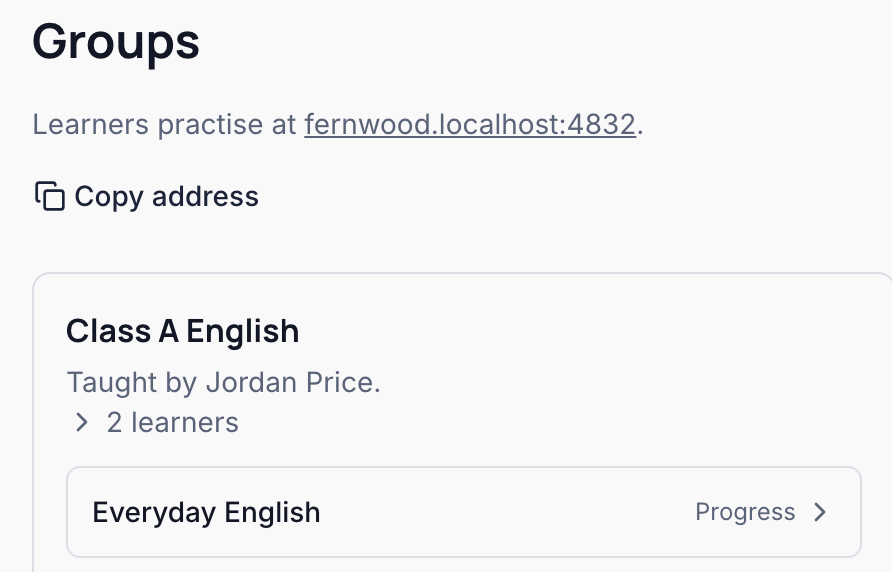
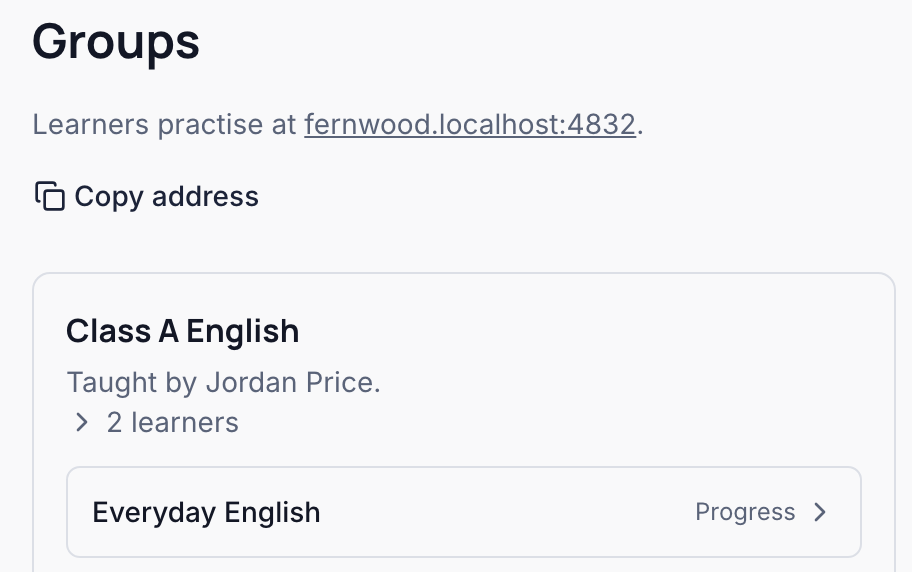
docs(screenshots): keep a card whole when a crop reaches its side
The question being reviewed showed its card cut at the right: the crop ended where the card did, and the card's edge, a ring drawn as a box shadow just outside it, fell outside the picture. A crop now takes in the whole width of any bordered or ringed box it reaches at a side, a ring's pixel of room included; it still cuts a long card or list top to bottom, where a step shows only part of one.

diff --git a/tooling/docs-screenshots/capture.ts b/tooling/docs-screenshots/capture.ts
@@ -145,8 +145,8 @@ async function sees(page: Page, ...labels: string[]) {
 
 /**
  * Run in the page: `clip` grown to cover every line of text, control, and
- * image it cuts through, with a little room; one wholly inside or outside
- * stays as it is. A string, as this package's types know no DOM.
+ * image it cuts through, and every bordered box it cuts at a side, with a
+ * little room; one wholly inside or outside stays as it is. A string, as this package's types know no DOM.
  */
 const STRADDLING = `(clip) => {
   const cuts = (r) =>
@@ -165,6 +165,23 @@ const STRADDLING = `(clip) => {
     rects.push(element.getBoundingClientRect());
   }
   const grown = { ...clip };
+  // A bordered box, such as a card, its edge a border or a ring (a box
+  // shadow, as shadcn's cards), whole from side to side; not top to
+  // bottom, where a step's part of a long card or list is cut on purpose,
+  // and not one as wide as the screen, as the console's own panel.
+  for (const element of document.querySelectorAll("body *")) {
+    const style = getComputedStyle(element);
+    const edged =
+      parseFloat(style.borderLeftWidth) > 0 ||
+      parseFloat(style.borderRightWidth) > 0 ||
+      style.boxShadow !== "none";
+    if (!edged) continue;
+    const r = element.getBoundingClientRect();
+    if (r.width >= innerWidth - 2 || r.bottom <= clip.y || r.top >= clip.bottom) continue;
+    // Within 2px counts: a ring is drawn just outside the box it edges.
+    if (r.left < clip.x + 2 && r.right > clip.x) grown.x = Math.min(grown.x, r.left - 8);
+    if (r.right > clip.right - 2 && r.left < clip.right) grown.right = Math.max(grown.right, r.right + 8);
+  }
   for (const r of rects.filter(cuts)) {
     grown.x = Math.min(grown.x, r.left - 8);
     grown.y = Math.min(grown.y, r.top - 4);
